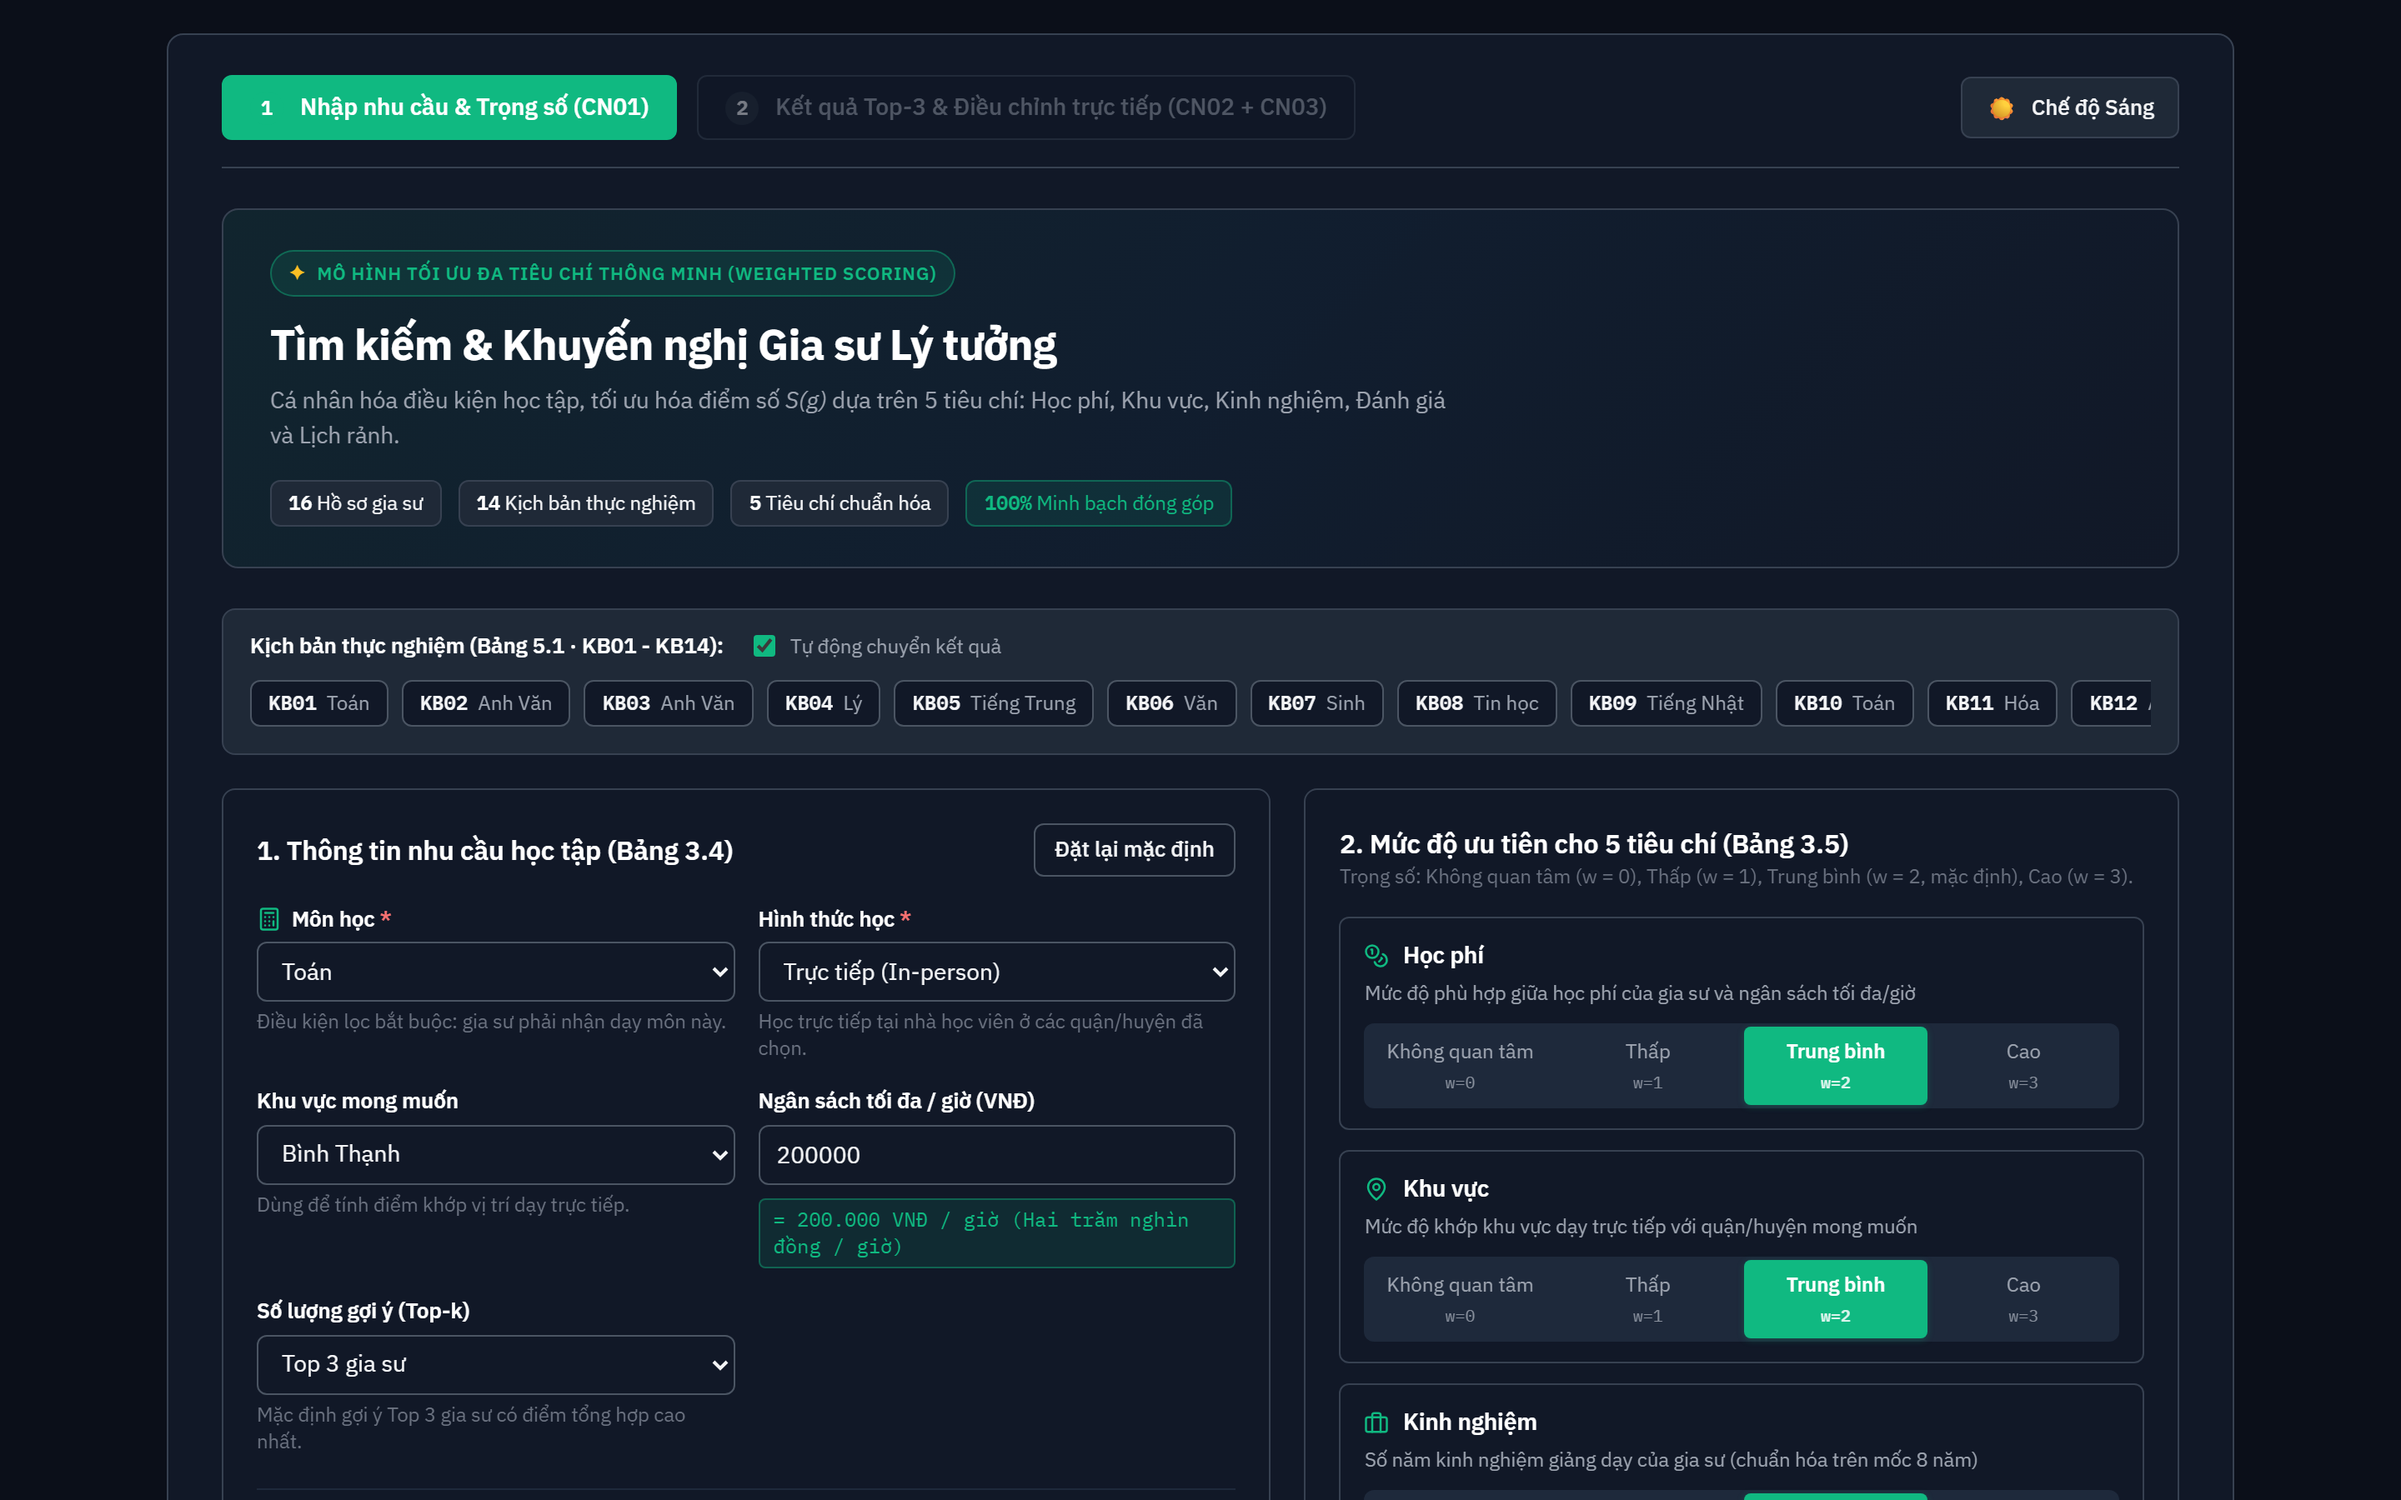
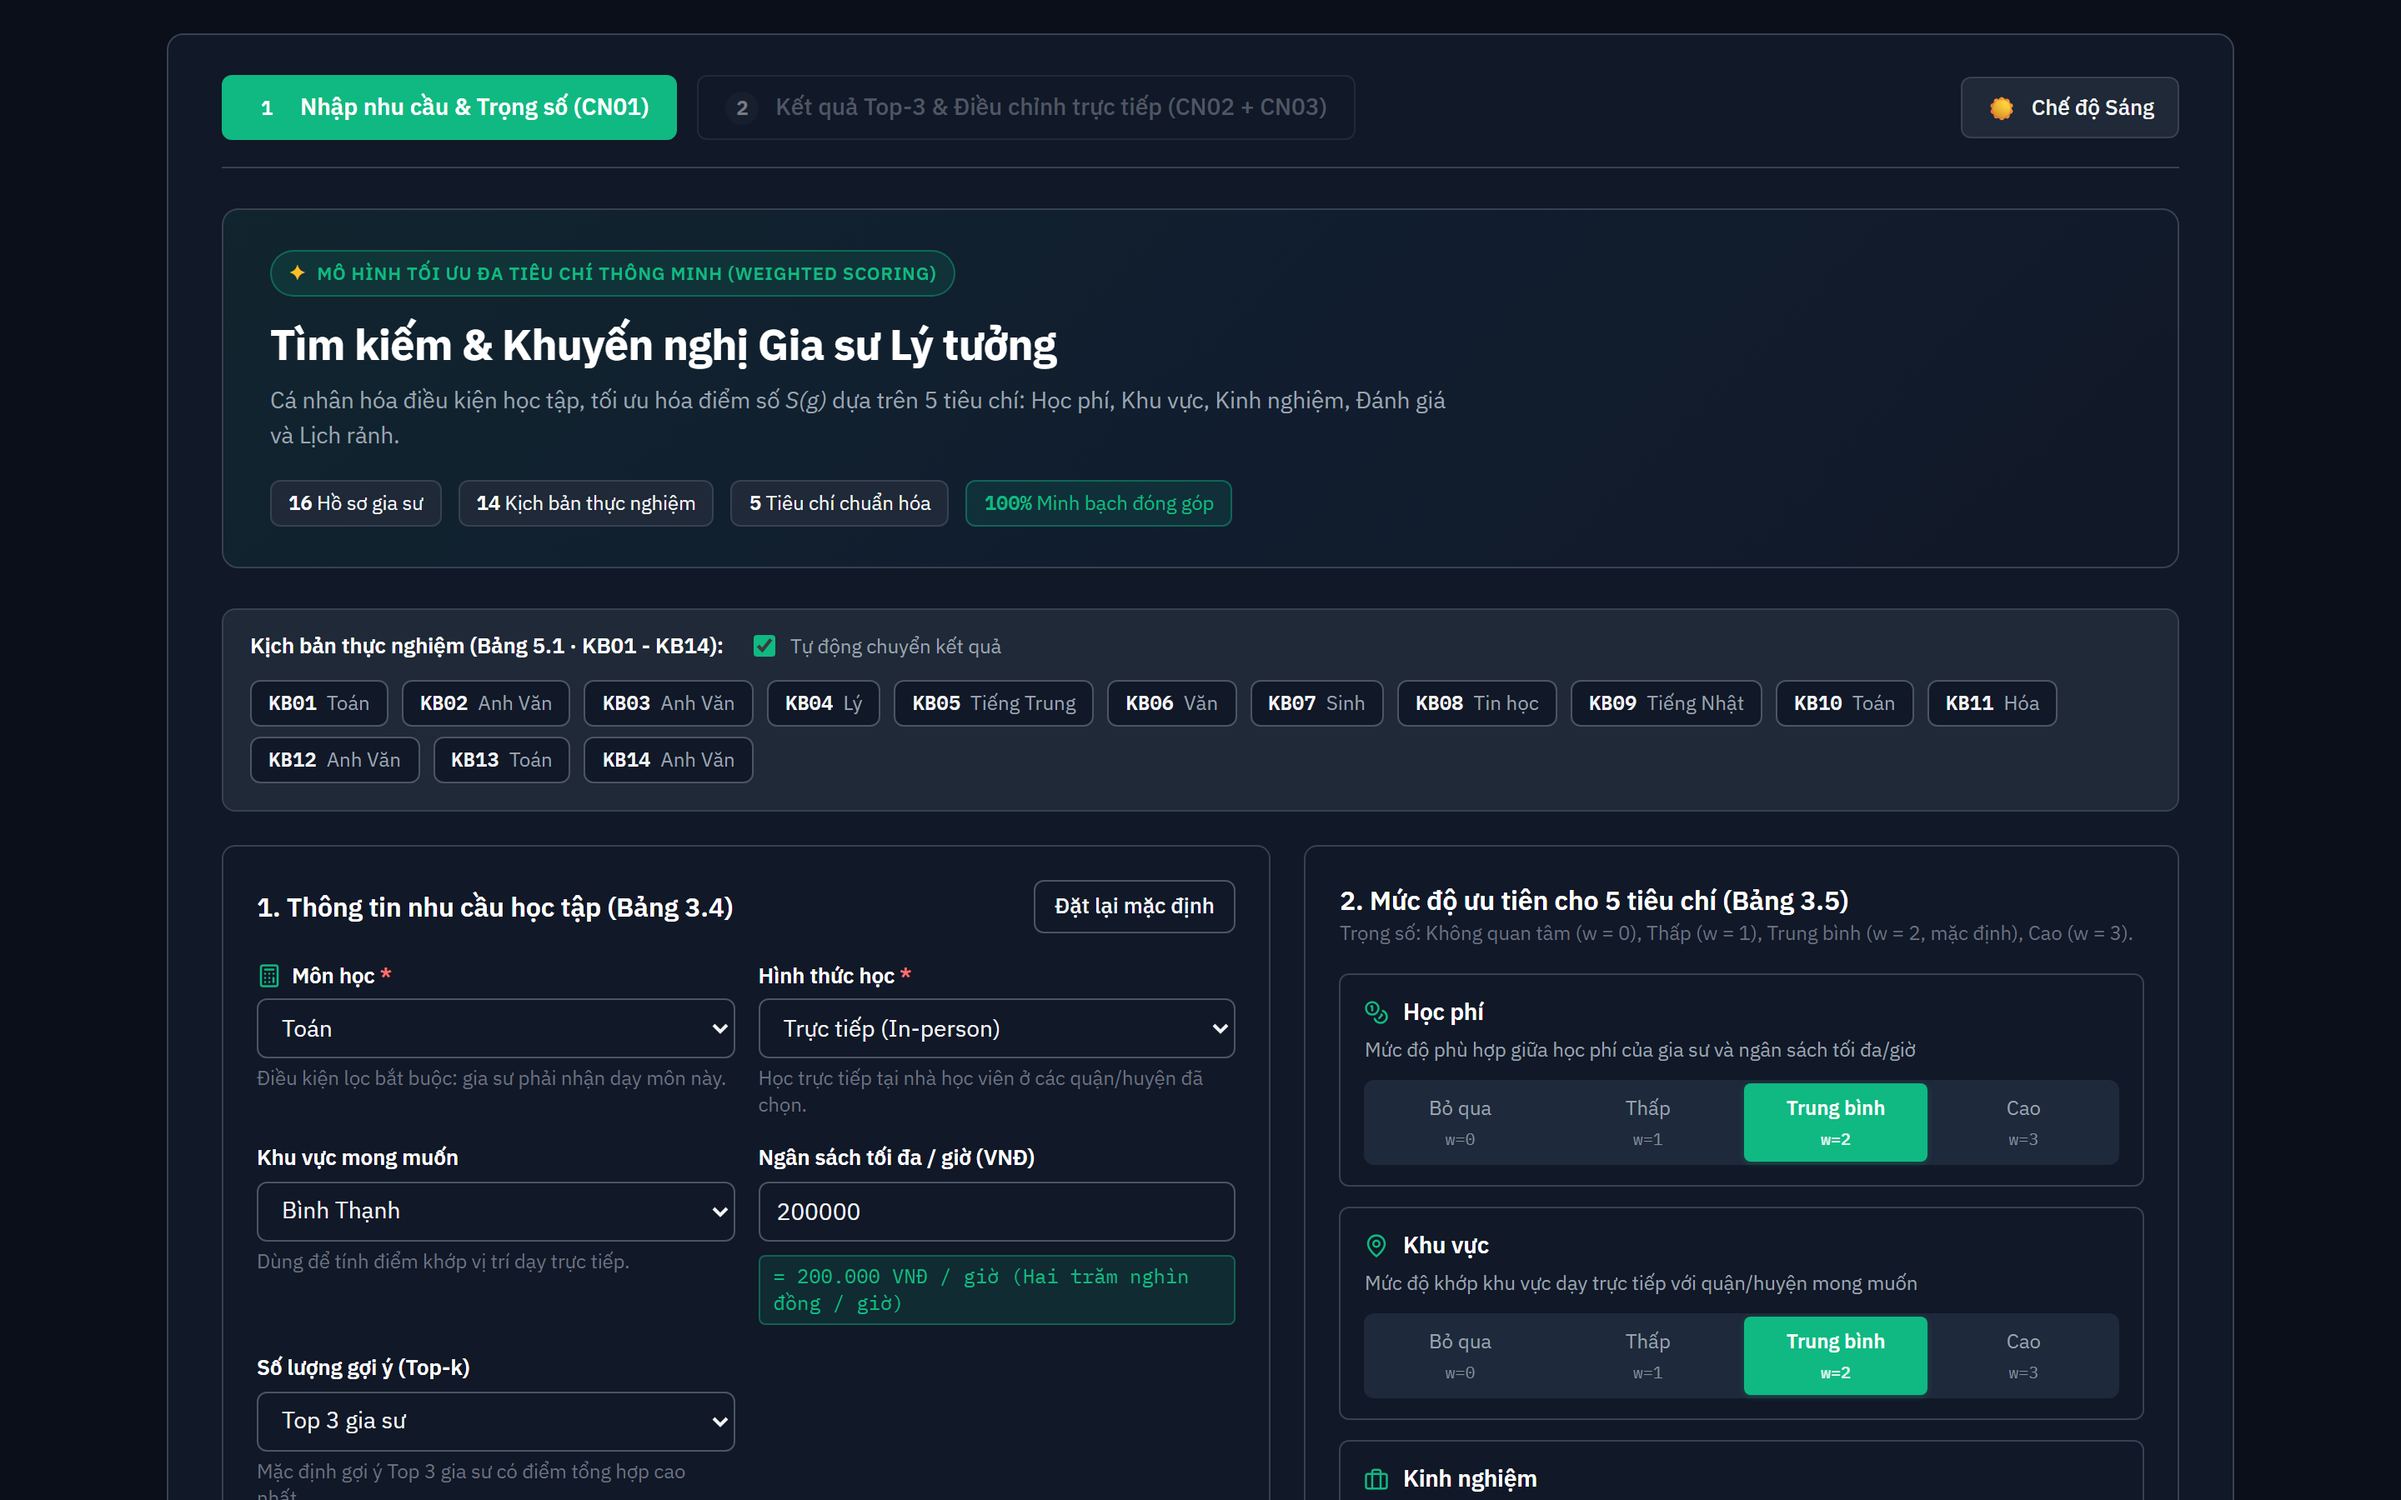
fix(ui): polish scenario wrap, zero-score indicator, compact cards and update midterm report figures

diff --git a/frontend/src/App.css b/frontend/src/App.css
@@ -358,8 +358,8 @@
 
 .scenario-chip-scroller {
   display: flex;
-  gap: 8px;
-  overflow-x: auto;
+  flex-wrap: wrap;
+  gap: 6px 8px;
   padding-bottom: 4px;
 }
 
@@ -712,6 +712,7 @@
 
 .seg-label {
   font-size: 12px;
+  white-space: nowrap;
 }
 
 .seg-weight {
@@ -999,6 +1000,7 @@
 
 .step-label {
   font-size: 11px;
+  white-space: nowrap;
 }
 
 .step-w {
@@ -1041,7 +1043,7 @@
 .tutor-card {
   border: 1px solid var(--border);
   border-radius: 8px;
-  padding: 20px;
+  padding: 14px 18px;
   background-color: var(--surface);
   transition: border-color 180ms ease, box-shadow 180ms ease;
 }
@@ -1073,8 +1075,8 @@
   display: flex;
   align-items: flex-start;
   justify-content: space-between;
-  gap: 16px;
-  margin-bottom: 16px;
+  gap: 12px;
+  margin-bottom: 10px;
   flex-wrap: wrap;
 }
 
@@ -1200,7 +1202,7 @@
 }
 
 .total-score-value {
-  font-size: 26px;
+  font-size: 22px;
   font-family: var(--mono);
   font-weight: 700;
   color: var(--text-h);
@@ -1218,12 +1220,12 @@
 .tutor-attributes-grid {
   display: grid;
   grid-template-columns: repeat(4, 1fr);
-  gap: 10px;
+  gap: 8px;
   background-color: var(--raised);
   border: 1px solid var(--rule);
   border-radius: 6px;
-  padding: 10px 12px;
-  margin-bottom: 14px;
+  padding: 6px 10px;
+  margin-bottom: 10px;
 }
 
 @media (max-width: 640px) {
@@ -1277,9 +1279,9 @@
   align-items: center;
   gap: 8px;
   font-size: 12px;
-  margin-bottom: 14px;
+  margin-bottom: 10px;
   flex-wrap: wrap;
-  padding: 4px 8px;
+  padding: 2px 6px;
   border-radius: 4px;
   border: 1px solid transparent;
   transition: border-color 0.15s ease, background-color 0.15s ease;
@@ -1311,8 +1313,8 @@
 /* Stacked Bar Score */
 .stacked-bar-container {
   border-top: 1px solid var(--rule);
-  padding-top: 14px;
-  margin-bottom: 14px;
+  padding-top: 10px;
+  margin-bottom: 10px;
 }
 
 .stacked-bar-header {
@@ -1337,12 +1339,12 @@
 
 .stacked-bar-track {
   display: flex;
-  height: 22px;
+  height: 20px;
   background-color: var(--raised);
   border: 1px solid var(--border);
   border-radius: 4px;
   overflow: hidden;
-  margin-bottom: 8px;
+  margin-bottom: 6px;
 }
 
 .stacked-bar-segment {
@@ -2035,4 +2037,41 @@
   z-index: 3;
   border: 2px solid var(--surface);
   box-shadow: 0 2px 6px rgba(0, 0, 0, 0.4);
+}
+
+.stacked-bar-segment.is-zero {
+  width: 28px;
+  min-width: 28px;
+  flex-shrink: 0;
+  background: repeating-linear-gradient(
+    -45deg,
+    rgba(239, 68, 68, 0.25),
+    rgba(239, 68, 68, 0.25) 4px,
+    rgba(30, 41, 59, 0.7) 4px,
+    rgba(30, 41, 59, 0.7) 8px
+  );
+  border-right: 1px dashed rgba(239, 68, 68, 0.5);
+  cursor: pointer;
+  display: flex;
+  align-items: center;
+  justify-content: center;
+}
+
+.stacked-bar-segment.is-zero:hover,
+.stacked-bar-segment.is-zero.is-active {
+  background: repeating-linear-gradient(
+    -45deg,
+    rgba(239, 68, 68, 0.45),
+    rgba(239, 68, 68, 0.45) 4px,
+    rgba(30, 41, 59, 0.9) 4px,
+    rgba(30, 41, 59, 0.9) 8px
+  );
+  outline: 1px solid rgba(239, 68, 68, 0.75);
+}
+
+.segment-inline-label.is-zero-text {
+  font-size: 9px;
+  color: #fca5a5;
+  font-weight: 700;
+  letter-spacing: -0.2px;
 }

diff --git a/frontend/src/components/StackedBarScore.jsx b/frontend/src/components/StackedBarScore.jsx
@@ -87,7 +87,23 @@ function StackedBarScore({
       >
         {appliedSegments.map((seg) => {
           if (seg.widthPercent <= 0) {
-            return null
+            const zeroTooltip = `${seg.label}: s_i = ${formatScoreVi(seg.scoreValue ?? 0, 3)} | ${PRIORITY_LABEL_MAP[seg.priorityLevel] || `w=${seg.weight}`} | Đóng góp C_i = 0,000 (0,0% - Không đạt điểm)`
+            const isHovered = activeKey === seg.key
+            return (
+              <button
+                key={seg.key}
+                type="button"
+                className={`stacked-bar-segment is-zero ${isHovered ? 'is-active' : ''}`}
+                title={zeroTooltip}
+                aria-label={zeroTooltip}
+                onMouseEnter={() => handleCriterionEnter(seg.key)}
+                onMouseLeave={handleCriterionLeave}
+                onFocus={() => handleCriterionEnter(seg.key)}
+                onBlur={handleCriterionLeave}
+              >
+                <span className="segment-inline-label is-zero-text">0.00</span>
+              </button>
+            )
           }
           const tooltipText = `${seg.label}: s_i = ${formatScoreVi(seg.scoreValue, 3)} | ${PRIORITY_LABEL_MAP[seg.priorityLevel] || `w=${seg.weight}`} | Đóng góp C_i = ${formatScoreVi(seg.contributionValue, 3)} (${seg.shareInTotalPercent.toFixed(1).replace('.', ',')}% tổng điểm)`
           const isHovered = activeKey === seg.key

diff --git a/frontend/src/pages/SearchPage.jsx b/frontend/src/pages/SearchPage.jsx
@@ -192,7 +192,7 @@ function SearchPage({
       learningMode: 'in_person',
       preferredDistrict: 'Bình Thạnh',
       maxBudgetVnd: '200000',
-      timeSlots: ['T2-tối', 'T4-tối'],
+      timeSlots: [],
       priorities: { ...DEFAULT_PRIORITIES },
       topK: 3,
       scenarioMeta: null,
@@ -600,7 +600,7 @@ function SearchPage({
                                 transition={{ type: 'spring', stiffness: 450, damping: 32 }}
                               />
                             )}
-                            <span className="seg-label" style={{ position: 'relative', zIndex: 1 }}>{opt.label}</span>
+                            <span className="seg-label" style={{ position: 'relative', zIndex: 1 }}>{opt.shortLabel || opt.label}</span>
                             <span className="seg-weight" style={{ position: 'relative', zIndex: 1 }}>w={opt.weight}</span>
                           </motion.button>
                         )

diff --git a/frontend/src/services/api.js b/frontend/src/services/api.js
@@ -68,10 +68,10 @@ export const SESSIONS_OF_DAY = [
 ]
 
 export const PRIORITY_OPTIONS = [
-  { value: 'none', label: 'Không quan tâm', weight: 0 },
-  { value: 'low', label: 'Thấp', weight: 1 },
-  { value: 'medium', label: 'Trung bình', weight: 2 },
-  { value: 'high', label: 'Cao', weight: 3 },
+  { value: 'none', label: 'Không quan tâm', shortLabel: 'Bỏ qua', weight: 0 },
+  { value: 'low', label: 'Thấp', shortLabel: 'Thấp', weight: 1 },
+  { value: 'medium', label: 'Trung bình', shortLabel: 'Trung bình', weight: 2 },
+  { value: 'high', label: 'Cao', shortLabel: 'Cao', weight: 3 },
 ]
 
 export const CRITERIA_LIST = [

diff --git a/frontend/src/pages/ResultPage.jsx b/frontend/src/pages/ResultPage.jsx
@@ -330,7 +330,7 @@ function ResultPage({
                               )
                             }
                           >
-                            <span className="step-label">{opt.label}</span>
+                            <span className="step-label">{opt.shortLabel || opt.label}</span>
                             <span className="step-w">w={opt.weight}</span>
                           </button>
                         )

diff --git a/frontend/src/App.jsx b/frontend/src/App.jsx
@@ -36,7 +36,7 @@ function App() {
     learningMode: 'in_person',
     preferredDistrict: 'Bình Thạnh',
     maxBudgetVnd: '200000',
-    timeSlots: ['T2-tối', 'T4-tối'],
+    timeSlots: [],
     priorities: { ...DEFAULT_PRIORITIES },
     topK: 3,
     scenarioMeta: null,
